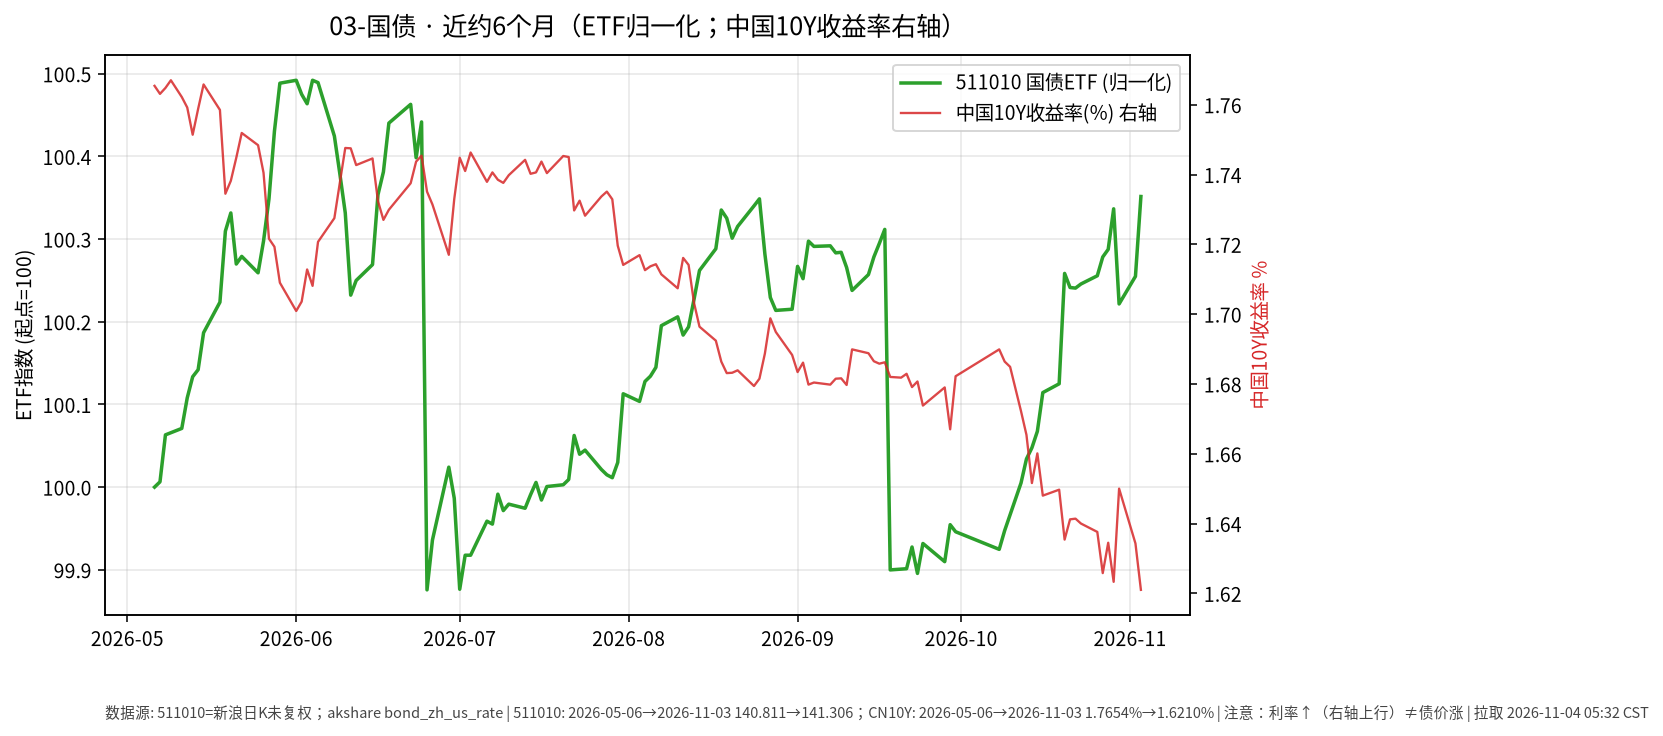
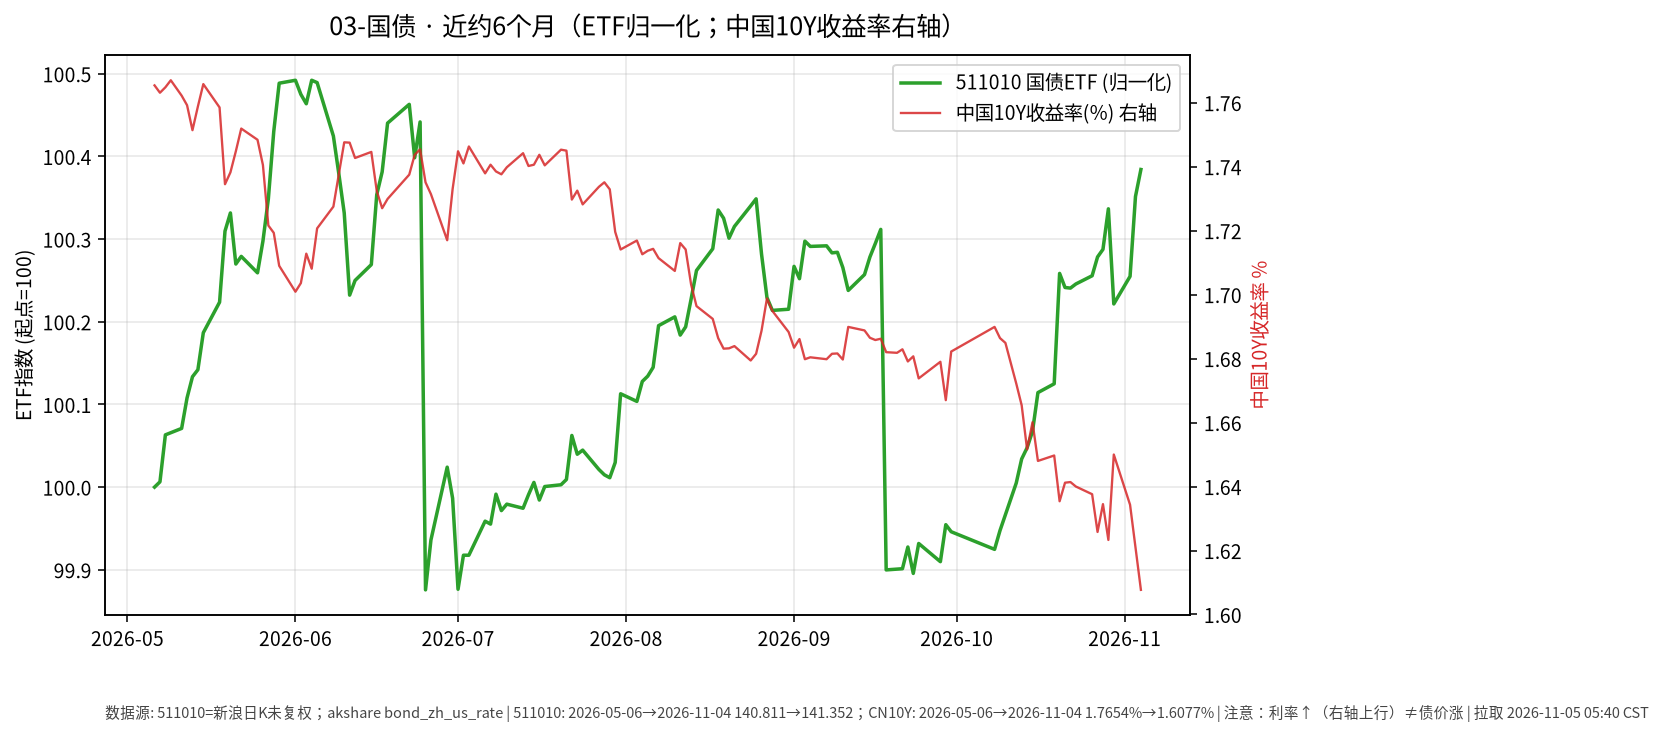
docs: 五门类投资日报 2026-11-05

diff --git a/01-黄金/日报/2026-11-05.md b/01-黄金/日报/2026-11-05.md
@@ -1,0 +1,38 @@
+# 黄金 · 日报 2026-11-05
+
+## 市场状态
+- **报告日**：2026-11-05（周四，Asia/Shanghai 盘前例程）
+- **数据截止交易日**：A 股/沪金均为 **2026-11-04（周三）**；GLD 为美股 **2026-11-04** 收盘（美东前一晚，对本报告而言属「隔夜已收」）。本页数字不含周四盘中。
+- GLD 收盘 **372.49**，较前一交易日（2026-11-03 的 359.26）**+3.68%**（akshare 日 K 至 11-03；**2026-11-04** 点位由新浪美股行情 `gb_gld` 补齐；yfinance/Yahoo 限流）。
+- 沪金 AU9999：**2026-11-04** 收盘 **863.79** 元/克（**+2.83%**）；黄金 ETF 518880 收 **8.229**（**+3.00%**）。
+
+## 关键数据
+| 标的 | 最近收盘日 | 收盘 | 日涨跌 | 近约6个月（归一起点日） | 区间涨跌 |
+|------|------------|------|--------|-------------------------|----------|
+| GLD | 2026-11-04 | 372.49 | +3.68% | 2026-05-01→2026-11-04 | -11.98% |
+| 518880 黄金ETF | 2026-11-04 | 8.229 | +3.00% | 2026-05-06→2026-11-04 | -15.95% |
+| AU9999（沪金） | 2026-11-04 | 863.79 | +2.83% | 2026-05-06→2026-11-04 | -15.89% |
+
+![近6个月走势](./charts/01-黄金-6m.png)
+
+## 简要解读
+- 美元计价黄金 ETF（GLD）在 **2026-11-04** 较前一交易日约 **+3.68%**；境内 518880 约 **+3.00%**，沪金 AU9999 约 **+2.83%**。近约半年归一后约 **-11.98%～-15.95%**（自 5 月高位回撤后的区间路径）。
+- 价格变动同时受美元、实际利率与风险情绪影响；本页只描述已发生报价，不推断下一步方向。
+
+## 关注点与风险
+- 汇率：境内投资者若以人民币计量，还需叠加美元兑人民币变动，账面涨跌可能与 GLD 美元涨跌不一致。
+- 波动：黄金单日可达数个百分点；ETF 净值/溢价、交易时段与现货不完全同步。
+- 数据完整性：GLD 历史至 11-03 来自 akshare；**2026-11-04** 收盘由新浪 `gb_gld` 补点（yfinance/Yahoo 限流，报价字段显示 Nov 04 EST 收市）。518880 新浪日 K；SGE Au99.99 完整。
+
+## 来源与时间
+- GLD：akshare `stock_us_daily`（至 2026-11-03）+ 新浪 hq `gb_gld`（2026-11-04）；yfinance/Yahoo 限流
+- 518880：新浪日 K；AU9999：上海金交所 Dailyhq
+- 图表：Python matplotlib，收盘价归一到起点=100（图窗自 2026-05-01 起）；拉取约 2026-11-05 05:40:23 CST
+
+## 今日一点
+# 今日一点 · Day 9/100 · 《境内账户地图》
+
+**结论：** 先把钱放在哪一类「容器」分清——银行理财、公募基金、券商通道里的 ETF、以及带额度的 QDII——各自结算节奏、开闭市与可核对程度不同，地图本身不是买卖指令。
+
+**机制：** 银行理财多走产品说明书与估值披露；公募看单位净值与 T+N 确认；ETF 在交易所时段按市价撮合，还要留意折溢价；QDII 还多一层额度、换汇与境外市场假期错位。同叫「债」或「货」，放进不同账户，你能看见的价格更新频率和急用钱时的变现路径并不一样。和债底仓主线一致：先认清账户地图与动用年限，再谈以后是否划拨股票卫星。今天只画地图，不定买卖。
+

diff --git a/03-国债/日报/2026-11-05.md b/03-国债/日报/2026-11-05.md
@@ -1,0 +1,29 @@
+# 国债 · 日报 2026-11-05
+
+## 市场状态
+- **报告日**：2026-11-05；**数据截止交易日**：**2026-11-04**。
+- 国债 ETF 511010 收 **141.352**，日涨跌 **+0.033%**。
+- 中债国债收益率曲线 **10 年期** 2026-11-04 报 **1.6077%**，较上一可得日（2026-11-03 的 1.6210%）约 **-1.33 BP**（akshare `bond_zh_us_rate`）。
+- **提醒**：利率上行（曲线上移）通常对应既有国债价格承压；图中 ETF 净值涨 ≠ 收益率涨。**利率↑线↑≠债价涨**。
+
+## 关键数据
+| 标的 | 收盘日 | 收盘/收益率 | 日变化 | 约6个月 | 区间 |
+|------|--------|-------------|--------|---------|------|
+| 511010 | 2026-11-04 | 141.352 | +0.033% | 2026-05-06→2026-11-04 | +0.38% |
+| 中债10Y国债收益率 | 2026-11-04 | 1.6077% | 约-1.33 BP | 2026-05-06→2026-11-04 | 约 -15.77 BP（akshare 序列） |
+
+![近6个月走势](./charts/03-国债-6m.png)
+
+## 简要解读
+- 511010 近半年归一涨跌约 **+0.38%**，路径相对平缓；2026-11-04 微涨，同时 10Y 收益率较前一可得日约 -1.33 BP（利率下行对存量债价偏支撑，与 ETF 同日微涨方向一致，但单日仍可能受供需/折溢价影响）。
+- 久期越长，对收益率变化越敏感；本页只记录 ETF 收盘与曲线点位。图中右轴叠加中国10Y收益率日序。
+
+## 关注点与风险
+- 利率风险：收益率上行 → 债券市价下行。
+- 通胀预期、货币政策与供需（供给放量等）都会改变曲线形态。
+- 收益率序列来自公开曲线汇总，与 ETF 交易价时间戳不完全同步。
+
+## 来源与时间
+- 511010：新浪日 K；截止 2026-11-04
+- 收益率：akshare `bond_zh_us_rate`（2026-11-04，10Y=1.6077%）
+- 图表：matplotlib，ETF 收盘归一=100，中国10Y 收益率右轴；图注已写「利率↑线↑≠债价涨」；拉取约 2026-11-05 05:40:23 CST

diff --git a/05-高股息/日报/2026-11-05.md b/05-高股息/日报/2026-11-05.md
@@ -1,0 +1,30 @@
+# 高股息 · 日报 2026-11-05
+
+## 市场状态
+- **报告日**：2026-11-05；**数据截止交易日**：**2026-11-04**。
+- 红利 ETF 510880 收 **3.423**（**-0.44%**）。
+- 招商银行 600036 收 **42.54**（**-0.35%**）；长江电力 600900 收 **29.67**（**-0.64%**）。
+- 三者同日均下行；分红与价格涨跌是两回事（股息率随股价变动）。
+- **价格口径**：本页序列为交易所日 K **未复权**收盘（新浪）。
+
+## 关键数据
+| 标的 | 收盘日 | 收盘 | 日涨跌 | 约6个月 | 区间涨跌 |
+|------|--------|------|--------|---------|----------|
+| 510880 红利ETF | 2026-11-04 | 3.423 | -0.44% | 2026-05-06→2026-11-04 | +2.45% |
+| 600036 招商银行 | 2026-11-04 | 42.54 | -0.35% | 2026-05-06→2026-11-04 | +11.95% |
+| 600900 长江电力 | 2026-11-04 | 29.67 | -0.64% | 2026-05-06→2026-11-04 | +9.08% |
+
+![近6个月走势](./charts/05-高股息-6m.png)
+
+## 简要解读
+- 近半年归一（未复权）：510880 约 **+2.45%**，招行约 **+11.95%**，长电约 **+9.08%**（个股路径强于宽基红利 ETF，不代表未来）。
+- 2026-11-04：510880、招行、长电同日下行，属已发生的价格事实。
+
+## 关注点与风险
+- 银行与公用事业对利率、监管、来水/电价等基本面敏感；高股息不保证本金稳定。
+- 510880 成分与权重定期调整；个股与 ETF 走势可显著偏离。
+- 未复权序列在除权除息日会出现跳空，与前复权路径不一致属正常。
+
+## 来源与时间
+- 510880 / 600036 / 600900：新浪 CN_MarketData K 线（未复权）
+- 截止 2026-11-04；图表 matplotlib，起点=100；图注写明未复权；拉取约 2026-11-05 05:40:23 CST

diff --git a/02-中短债/日报/2026-11-05.md b/02-中短债/日报/2026-11-05.md
@@ -1,0 +1,28 @@
+# 中短债 · 日报 2026-11-05
+
+## 市场状态
+- **报告日**：2026-11-05；**A 股数据截止交易日**：**2026-11-04**（周四盘前）。
+- 短融 ETF 511360 收 **114.111**（日涨跌 **+0.001%**）。
+- 159649（国开债 ETF 华安）收 **110.879**（日涨跌 **+0.040%**）。
+- 短端品种单日变动极小；仅作路径对照，非交易建议。
+
+## 关键数据
+| 标的 | 收盘日 | 收盘 | 日涨跌 | 约6个月区间 | 区间涨跌 |
+|------|--------|------|--------|-------------|----------|
+| 511360 短融ETF海富通 | 2026-11-04 | 114.111 | +0.001% | 2026-05-06→2026-11-04 | +0.63% |
+| 159649 国开债ETF华安 | 2026-11-04 | 110.879 | +0.040% | 2026-05-06→2026-11-04 | +1.10% |
+
+![近6个月走势](./charts/02-中短债-6m.png)
+
+## 简要解读
+- 两条曲线近半年均呈缓慢抬升（归一后约 **+0.63%** / **+1.10%**），单日波动接近于零，符合短久期利率品种特征。
+- 159649 跟踪国开债，久期与信用暴露通常高于纯短融；与 511360 并排只为对照路径，不暗示优劣。
+
+## 关注点与风险
+- 利率上行时净值可能回撤（即使票息仍为正）。
+- ETF 折溢价、流动性与跟踪误差；节假日后跳空可能出现。
+- 杠杆与加久期会放大波动——本报告不讨论、不鼓励此类操作。
+
+## 来源与时间
+- 新浪 CN_MarketData 日 K，截止 2026-11-04
+- 图表：matplotlib，起点归一=100；拉取约 2026-11-05 05:40:23 CST

diff --git a/04-纯债/日报/2026-11-05.md b/04-纯债/日报/2026-11-05.md
@@ -1,0 +1,28 @@
+# 纯债 · 日报 2026-11-05
+
+## 市场状态
+- **报告日**：2026-11-05；**数据截止交易日**：**2026-11-04**。
+- 城投债 ETF 511220 收 **10.441**（**+0.010%**）。
+- 政金债/债券 ETF 511520 收 **120.031**（**-0.192%**）。
+- 511220 微涨、511520 小幅回落；近半年仍呈缓慢抬升。
+
+## 关键数据
+| 标的 | 收盘日 | 收盘 | 日涨跌 | 约6个月区间 | 区间涨跌 |
+|------|--------|------|--------|-------------|----------|
+| 511220 城投债ETF海富通 | 2026-11-04 | 10.441 | +0.010% | 2026-05-06→2026-11-04 | +1.04% |
+| 511520 政金债ETF富国 | 2026-11-04 | 120.031 | -0.192% | 2026-05-06→2026-11-04 | +2.76% |
+
+![近6个月走势](./charts/04-纯债-6m.png)
+
+## 简要解读
+- 近半年归一：511220 约 **+1.04%**，511520 约 **+2.76%**；2026-11-04 城投微涨、政金债 ETF 小幅回落，单日分叉属已发生价格事实。
+- 城投债含信用利差暴露，政金债更偏利率；并排对照路径，不评价孰优。
+
+## 关注点与风险
+- 信用利差扩张时，城投/信用类净值回撤可能大于利率债。
+- 利率上行同样压制久期更长的品种。
+- ETF 折溢价与跟踪误差；本报告不讨论杠杆与下沉信用。
+
+## 来源与时间
+- 新浪 CN_MarketData 日 K，截止 2026-11-04
+- 图表：matplotlib，起点归一=100；拉取约 2026-11-05 05:40:23 CST

diff --git a/notes/invest-knowledge-100/今日一点/2026-11-05-day09.md b/notes/invest-knowledge-100/今日一点/2026-11-05-day09.md
@@ -1,0 +1,5 @@
+# 今日一点 · Day 9/100 · 《境内账户地图》
+
+**结论：** 先把钱放在哪一类「容器」分清——银行理财、公募基金、券商通道里的 ETF、以及带额度的 QDII——各自结算节奏、开闭市与可核对程度不同，地图本身不是买卖指令。
+
+**机制：** 银行理财多走产品说明书与估值披露；公募看单位净值与 T+N 确认；ETF 在交易所时段按市价撮合，还要留意折溢价；QDII 还多一层额度、换汇与境外市场假期错位。同叫「债」或「货」，放进不同账户，你能看见的价格更新频率和急用钱时的变现路径并不一样。和债底仓主线一致：先认清账户地图与动用年限，再谈以后是否划拨股票卫星。今天只画地图，不定买卖。

diff --git a/notes/invest-knowledge-100/progress.md b/notes/invest-knowledge-100/progress.md
@@ -1,4 +1,4 @@
-next_day: 9
+next_day: 10
 started: 2026-10-26
-last_completed_day: 8
-last_date: 2026-11-04
+last_completed_day: 9
+last_date: 2026-11-05
